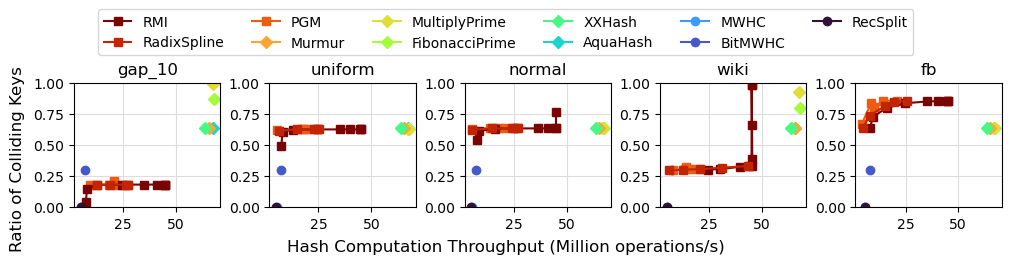
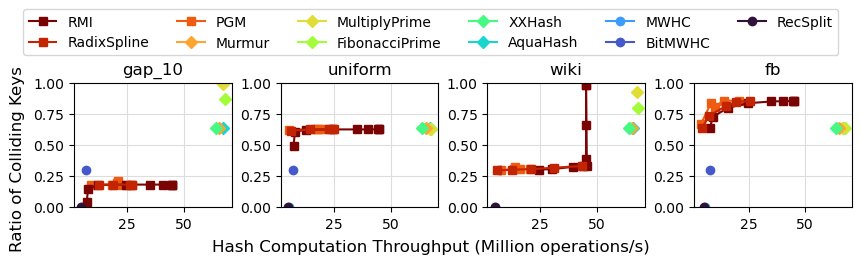
Add more cloud things

diff --git a/scripts/print_figures.py b/scripts/print_figures.py
@@ -184,7 +184,7 @@ def sort_labels(labels, handles, map = F_MAP):
 
 # ------- collision plot ------- #
 def collisions(df):
-    datasets = ['gap_10','uniform','normal','wiki','fb']
+    datasets = ['gap_10','uniform','wiki','fb']
     df = df[df["label"].str.lower().str.contains("collision")].copy(deep=True)
     if df.empty:
         return
@@ -200,7 +200,7 @@ def collisions(df):
     
     # Create a single figure with multiple subplots in a row
     num_subplots = len(datasets)
-    fig, axes = plt.subplots(1, num_subplots, figsize=(10, 2))  # Adjust figsize as needed
+    fig, axes = plt.subplots(1, num_subplots, figsize=(8.5, 2))  # Adjust figsize as needed
     
     # Create a single legend for all subplots
     legend_labels = []
@@ -241,6 +241,7 @@ def collisions(df):
 
 # ------- collision RMI plot ------- #
 def collisions_rmi(df):
+    datasets = ['gap_10','uniform','wiki','fb']
     df = df[df["label"].str.lower().str.contains("collision")].copy(deep=True)
     df = df[df["function"] == "RMI"]
     if df.empty:
@@ -254,34 +255,26 @@ def collisions_rmi(df):
     df = groupby_helper(df, ['dataset_name','label','function'], ['dataset_size','collisions','tot_time_s'])
     df["models"] = df["label"].apply(lambda x : get_rmi_models(x))
     df = df.sort_values(by='models')
+ 
+    fig, axes = plt.subplots(1, len(datasets), figsize=(8.5, 2))
 
-    uniform = df[df["dataset_name"] == "uniform"]
-    normal = df[df["dataset_name"] == "normal"]
-    
-    fig, axes = plt.subplots(1, 2, figsize=(5, 2))
+    for i,name_ds in enumerate(datasets):
+        group_ds = df[df['dataset_name']==name_ds]
+        g_fn = group_ds.groupby('function')
+        ax = axes[i]
 
-    uni_ticks = uniform['models'].apply(lambda x : log10(x))
-    normal_ticks = normal['models'].apply(lambda x : log10(x))
-
-    # axes[0].set_xscale('log')
-    # axes[1].set_xscale('log')
-    axes[0].plot(uni_ticks, uniform['collisions']/uniform['dataset_size'], color=COLORS['RMI'], marker=SHAPES_FN['RMI'])
-    axes[1].plot(normal_ticks, normal['collisions']/normal['dataset_size'], color=COLORS['RMI'], marker=SHAPES_FN['RMI'])        
-
-    # ticks
-    uni_tick_labels = [f"$10^{int(tick)}$" for tick in uni_ticks]
-    normal_tick_labels = [f"$10^{int(tick)}$" for tick in normal_ticks]
-    axes[0].set_xticks(uni_ticks[1::2], uni_tick_labels[1::2])
-    axes[1].set_xticks(normal_ticks[1::2], normal_tick_labels[1::2])
-    
-    axes[0].set_title('uniform')
-    axes[1].set_title('normal')
-    axes[0].yaxis.set_major_formatter(plt.FormatStrFormatter('%.2f'))
-    axes[1].yaxis.set_major_formatter(plt.FormatStrFormatter('%.2f'))
-    axes[0].set_ylim([0, 1])
-    axes[1].set_ylim([0, 1])
-    axes[0].grid(True)
-    axes[1].grid(True)
+        ticks = group_ds['models'].apply(lambda x : log10(x))
+        ax.plot(ticks, group_ds['collisions']/group_ds['dataset_size'], color=COLORS['RMI'], marker=SHAPES_FN['RMI'])
+        
+        # Customize the plot
+        ax.set_title(f'{name_ds}')
+        tick_labels = [f"$10^{int(tick)}$" for tick in ticks]
+        ax.set_xticks(ticks[1::2], tick_labels[1::2])
+        ax.set_yticks([0,0.25,0.5,0.75,1],['0','0.25','0.5','0.75','1'])
+        # Format the y-axis to display only two digits after the decimal point
+        ax.yaxis.set_major_formatter(plt.FormatStrFormatter('%.2f'))
+        ax.set_ylim([0, 1.05])
+        ax.grid(True)
 
     # Set a common label for x and y axes
     labx = fig.supxlabel('RMI number of submodels')

diff --git a/cloud/cpu_classes_azure.md b/cloud/cpu_classes_azure.md
@@ -1,0 +1,58 @@
+# CPU classes [Azure]
+Overall, Azure provides the following CPUs.
+| Model | Freq. [GHz] | Turbo Freq. [GHz] | L3 Size [MB] |
+| ----: | :---------: | :---------------: | :----------: |
+| Coffee Lake E-2288G | 3.7 | 5.0 | 16 | 
+| Haswell E5-2673 v3 | 2.4 | 3.1 | 30 |
+| Skylake 8168 | 2.7 | 3.7 | 33 |
+| Cascade Lake 6246R | 3.4 | 4.1 | 36 |
+| Cascade Lake 8272CL | 2.6 | 3.5 | 36 |
+| Skylake 8171M | 2.1 | -- | 36 |
+| Cascade Lake 8280M | 2.7 | 4.0 | 39 |
+| Intel Xeon E7-8890 v3 | 2.5 | 3.3 | 45 |
+| Ice Lake 8370C | 2.8 | 3.5 | 48 |
+| Broadwell E5-2673 v4 | 2.3 | 3.5 | 50 |
+| Sapphire Rapids 8473C | 2.1 | 3.8 | 105 |
+
+## CPU instance sizes
+For RAM memory of around 32 GB, these CPUs are available in the following VM sizes.
+
+### Coffee Lake E-2288G [16 MB]
+#### DCsv2-series, `DC8_v2` [ unavailable ]
+These VMs help protect the confidentiality and integrity of data and code while it’s processed in the public cloud.
+
+Example confidential use cases include: databases, blockchain, multiparty data analytics, fraud detection, anti-money laundering, usage analytics, intelligence analysis and machine learning.
+
+*__Price__ :* 624.88 $/month <!-- currently unavailable due to insufficient vCPU quota. -->
+
+### Sapphire Rapids 8473C [150 MB]
+#### Dv4-series, `D8_v4` [ unavailable ]
+These sizes offer a combination of vCPU, memory and remote storage options for most production workloads.
+
+*__Price__ :* 312.44 $/month <!-- currently unavailable due to insufficient vCPU quota. -->
+
+### Broadwell E5-2673 v4 [50 MB]
+#### Av2-series, `A4m_v2`
+These VMs have CPU performance and memory configurations best suited for entry level workloads like development and test. The size is throttled to offer consistent processor performance for the running instance, regardless of the hardware it is deployed on (which means the the actual L3 sizes could be scaled down internally).
+
+Some example use cases include development and test servers, low traffic web servers, small to medium databases, proof-of-concepts, and code repositories.
+
+*__Price__ :* 212.43 $/month
+
+#### Dv2-series, `D4_v2`
+A follow-on to the original D-series, this series features a more powerful CPU and optimal CPU-to-memory configuration,making it suitable for most production workloads.
+
+*__Price__ :* 384.71 $/month (for 28 GB RAM) <!-- currently unavailable due to insufficient vCPU quota. -->
+
+#### Dv3-series, `D32_v3`
+This series run on many different processors in a hyper-threaded configuration, providing a better value proposition for most general purpose workloads. Memory has been expanded, while disk and network limits have been adjusted on a per core basis to align with the move to hyperthreading.
+
+*__Price__ :* 1,249.76 $/month <!-- currently unavailable due to insufficient vCPU quota. -->
+
+#### Ev3-series, `E32_v3`
+The memory-optimized version of the Dv3 series.
+
+*__Price__ :* 1,646.88 $/month <!-- currently unavailable due to insufficient vCPU quota. -->
+
+### 
+eral

diff --git a/README.md b/README.md
@@ -143,6 +143,17 @@ Results are saved in the specified `<merged_file>.json` and `<merged_file>.csv` 
 
 This script can be particularly useful to leverage the average capability of `print_figures`.
 
+## 🔎 RAM peak usage analysis
+The provided Docker Image comes with the [`heaptrack`](https://github.com/KDE/heaptrack) tool already installed. `heaptrack` can be used to detect (among other statistics) the RAM peak usage during the program run.
+```sh
+heaptrack <benchmark_executable> <bechmark_arguments>
+```
+The tool will generate an output file in the current directory, called `heaptrack.<benchmark_executable>.<some_number>.gz`. The file is not human-readable, but it can be interpreted by running:
+```sh
+heaptrack --analyze heaptrack.<benchmark_executable>.<some_number>.gz
+```
+As the output file size might be quite big, it is recommended to remove the output file once done.
+
 ## 🌳 Repository structure
 [`cloud/`](./cloud/) : contains some csv files useful to run the repository on Cloud platforms like Azure or AWS.
 
